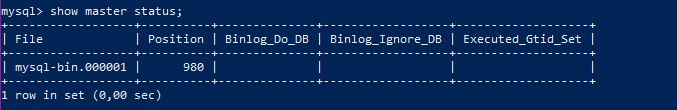
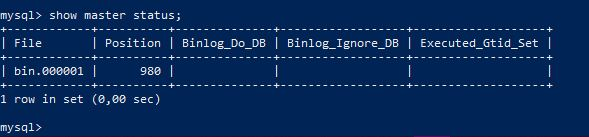
maestro-esclavo documentado y funcionando

Changed region(s): [[0.0, 0.0545, 1.0, 1.0], [0.9168, 0.4909, 0.9474, 0.5455], [0.0, 0.0, 0.0306, 0.0545]]

diff --git a/PRACTICAS/Practica5/Readme.md b/PRACTICAS/Practica5/Readme.md
@@ -21,7 +21,7 @@ Pero para copiar bases de datos hay otras formas de hacerlo, lo veremos a contin
 Vamos a crear una base de datos imaginando que se trata de un veterinario, por lo que necesitamos una tabla llamada DatosMascotas con las columnas IDM, DNID, NombreD, NombreM, Especie y FechaNacimiento.
 
 ```bash
-elvira@m1:~$ mysql -uroot -p
+elvira@m1:~$ mysql -u root -p
 Enter password:
 Welcome to the MySQL monitor.  Commands end with ; or \g.
 Your MySQL connection id is 3
@@ -50,13 +50,13 @@ Query OK, 0 rows affected (0,49 sec)
 Una vez hemos creado nuestra base de datos para la clínica veterinaria y hemos creado la tabla, tenemos que introducir los datos de los animalitos que se tratan en la clínica junto con los datos de sus dueños.
 
 ```bash
-mysql> insert into DatosMascotas(IDM,DNID,NombreD, NombreM, Especie, FechaNacimiento) values ("1", "123456789A", "Elvira Castillo", "Euler", "Agaporni Personata", "14122018");
+mysql> insert into DatosMascotas(IDM,DNID,NombreD, NombreM, Especie, FechaNacimiento) values ("1", "12345678A", "Elvira Castillo", "Euler", "Agaporni Personata", "14122018");
 Query OK, 1 row affected (0,05 sec)
-mysql> insert into DatosMascotas(IDM,DNID,NombreD, NombreM, Especie, FechaNacimiento) values ("2", "123456789A", "Elvira Castillo", "Oli", "Agaporni Fisher", "01022019");
+mysql> insert into DatosMascotas(IDM,DNID,NombreD, NombreM, Especie, FechaNacimiento) values ("2", "12345678A", "Elvira Castillo", "Oli", "Agaporni Fisher", "01022019");
 Query OK, 1 row affected (0,02 sec)
-mysql> insert into DatosMascotas(IDM,DNID,NombreD, NombreM, Especie, FechaNacimiento) values ("3", "456789554D", "Maria Pereira", "Pluma", "Agaporni Fisher", "15052014");
+mysql> insert into DatosMascotas(IDM,DNID,NombreD, NombreM, Especie, FechaNacimiento) values ("3", "45678954D", "Maria Pereira", "Pluma", "Agaporni Fisher", "15052014");
 Query OK, 1 row affected (0,00 sec)
-mysql> insert into DatosMascotas(IDM,DNID,NombreD, NombreM, Especie, FechaNacimiento) values ("4", "547885444D", "Jose Lizana", "Peque", "Dogo Aleman", "04082000");
+mysql> insert into DatosMascotas(IDM,DNID,NombreD, NombreM, Especie, FechaNacimiento) values ("4", "54785444D", "Jose Lizana", "Peque", "Dogo Aleman", "04082000");
 Query OK, 1 row affected (0,00 sec)
 
 ```
@@ -217,7 +217,7 @@ Y habilitar las lineas siguientes que son las que dicen donde se almacenara el l
 ```BASH
 log_error = /var/log/mysql/error.log
 server-id               = 1
-log_bin                 = /var/log/mysql/mysql-bin.log
+log_bin                 = /var/log/mysql/ bin.log  #mysql-bin.log
 ```
 
 ![imagen](https://github.com/layoel/SWAP2019/blob/master/PRACTICAS/Practica5/imagenes/7.JPG)
@@ -242,7 +242,36 @@ Y reiniciamos el servicio.
 
 
 Una vez configurados el maestro y el esclavo, volvemos al servidor maestro para crear un usuario y darle permisos para que haga la replicación.
+```BASH
+elvira@m1:~$ mysql -u root -p
+Enter password:
+Welcome to the MySQL monitor.  Commands end with ; or \g.
+Your MySQL connection id is 3
+Server version: 5.7.25-0ubuntu0.16.04.2-log (Ubuntu)
 
+Copyright (c) 2000, 2019, Oracle and/or its affiliates. All rights reserved.
+
+Oracle is a registered trademark of Oracle Corporation and/or its
+affiliates. Other names may be trademarks of their respective
+owners.
+
+Type 'help;' or '\h' for help. Type '\c' to clear the current input statement.
+
+mysql> create user esclavo identified by 'esclavo';
+Query OK, 0 rows affected (0,02 sec)
+
+mysql> grant replication slave on *.* to 'esclavo'@'%' identified by 'esclavo';
+Query OK, 0 rows affected, 1 warning (0,01 sec)
+
+mysql> flush privileges;
+Query OK, 0 rows affected (0,00 sec)
+
+mysql> flush tables;
+Query OK, 0 rows affected (0,00 sec)
+
+mysql> flush tables with read lock;
+Query OK, 0 rows affected (0,00 sec)
+```
 ![imagen](https://github.com/layoel/SWAP2019/blob/master/PRACTICAS/Practica5/imagenes/11.JPG)
 
 Mostramos los datos del maestro, que los vamos a necesitar en la máquina esclava con la siguiente orden en la consola mysql.
@@ -266,7 +295,7 @@ owners.
 
 Type 'help;' or '\h' for help. Type '\c' to clear the current input statement.
 
-mysql> change master to master_host='192.168.80.131', master_user='esclavo', master_password='esclavo', master_log_file='mysql-bin.000001', master_log_pos=501, master_port=3306;
+mysql> change master to master_host='192.168.80.131', master_user='esclavo', master_password='esclavo', master_log_file='bin.000001', master_log_pos=980, master_port=3306;
 Query OK, 0 rows affected, 2 warnings (0,04 sec)
 
 mysql> start slave;
@@ -288,12 +317,74 @@ consultamos si se ha replicado en el esclavo, con la orden
 elvira@m2:~$ mysql -u root -p
 ...
 mysql> show slave status\G
+
+*************************** 1. row ***************************
+               Slave_IO_State: Waiting for master to send event
+                  Master_Host: 192.168.80.131
+                  Master_User: esclavo
+                  Master_Port: 3306
+                Connect_Retry: 60
+              Master_Log_File: bin.000001
+          Read_Master_Log_Pos: 1314
+               Relay_Log_File: m2-relay-bin.000002
+                Relay_Log_Pos: 648
+        Relay_Master_Log_File: bin.000001
+             Slave_IO_Running: Yes
+            Slave_SQL_Running: Yes
+              Replicate_Do_DB:
+          Replicate_Ignore_DB:
+           Replicate_Do_Table:
+       Replicate_Ignore_Table:
+      Replicate_Wild_Do_Table:
+  Replicate_Wild_Ignore_Table:
+                   Last_Errno: 0
+                   Last_Error:
+                 Skip_Counter: 0
+          Exec_Master_Log_Pos: 1314
+              Relay_Log_Space: 852
+              Until_Condition: None
+               Until_Log_File:
+                Until_Log_Pos: 0
+           Master_SSL_Allowed: No
+           Master_SSL_CA_File:
+           Master_SSL_CA_Path:
+              Master_SSL_Cert:
+            Master_SSL_Cipher:
+               Master_SSL_Key:
+        Seconds_Behind_Master: 0
+Master_SSL_Verify_Server_Cert: No
+                Last_IO_Errno: 0
+                Last_IO_Error:
+               Last_SQL_Errno: 0
+               Last_SQL_Error:
+  Replicate_Ignore_Server_Ids:
+             Master_Server_Id: 1
+                  Master_UUID: b0c6959a-41cb-11e9-8ecc-000c297b19c0
+             Master_Info_File: /var/lib/mysql/master.info
+                    SQL_Delay: 0
+          SQL_Remaining_Delay: NULL
+      Slave_SQL_Running_State: Slave has read all relay log; waiting for more updates
+           Master_Retry_Count: 86400
+                  Master_Bind:
+      Last_IO_Error_Timestamp:
+     Last_SQL_Error_Timestamp:
+               Master_SSL_Crl:
+           Master_SSL_Crlpath:
+           Retrieved_Gtid_Set:
+            Executed_Gtid_Set:
+                Auto_Position: 0
+         Replicate_Rewrite_DB:
+                 Channel_Name:
+           Master_TLS_Version:
+1 row in set (0,00 sec)
 ```
+Realizando esta práctica en la versión inicial me encontré que al llegar aquí, tenía este fallo:
 ![imagen](https://github.com/layoel/SWAP2019/blob/master/PRACTICAS/Practica5/imagenes/15.JPG)
-Si tenemos el fallo que aparece en la imagen anterior, podemos solucionarlo de la [siguiente manera](https://www.beehexa.com/blog/2017/12/17/how-to-fix-master-and-slave-have-equal-mysql-server-uuids-mysql-error/)
+El fallo de la imagen anterior es debido a que cuando cree las máquinas la cloné para seguir con el resto de prácticas y tiene el mismo id en mysql he encontrado [aquí](https://www.beehexa.com/blog/2017/12/17/how-to-fix-master-and-slave-have-equal-mysql-server-uuids-mysql-error/) la solución al problema.
 
 ![imagen](https://github.com/layoel/SWAP2019/blob/master/PRACTICAS/Practica5/imagenes/16.JPG)
 
+Una vez resueltos todos los problemas y habiendo comprobado que funciona la replicación de los datos, ya solo nos queda seguir introduciendo datos en el maestro, y automaticamente se replican en el esclavo.
 
 ## Configuración maestro-maestro
 
